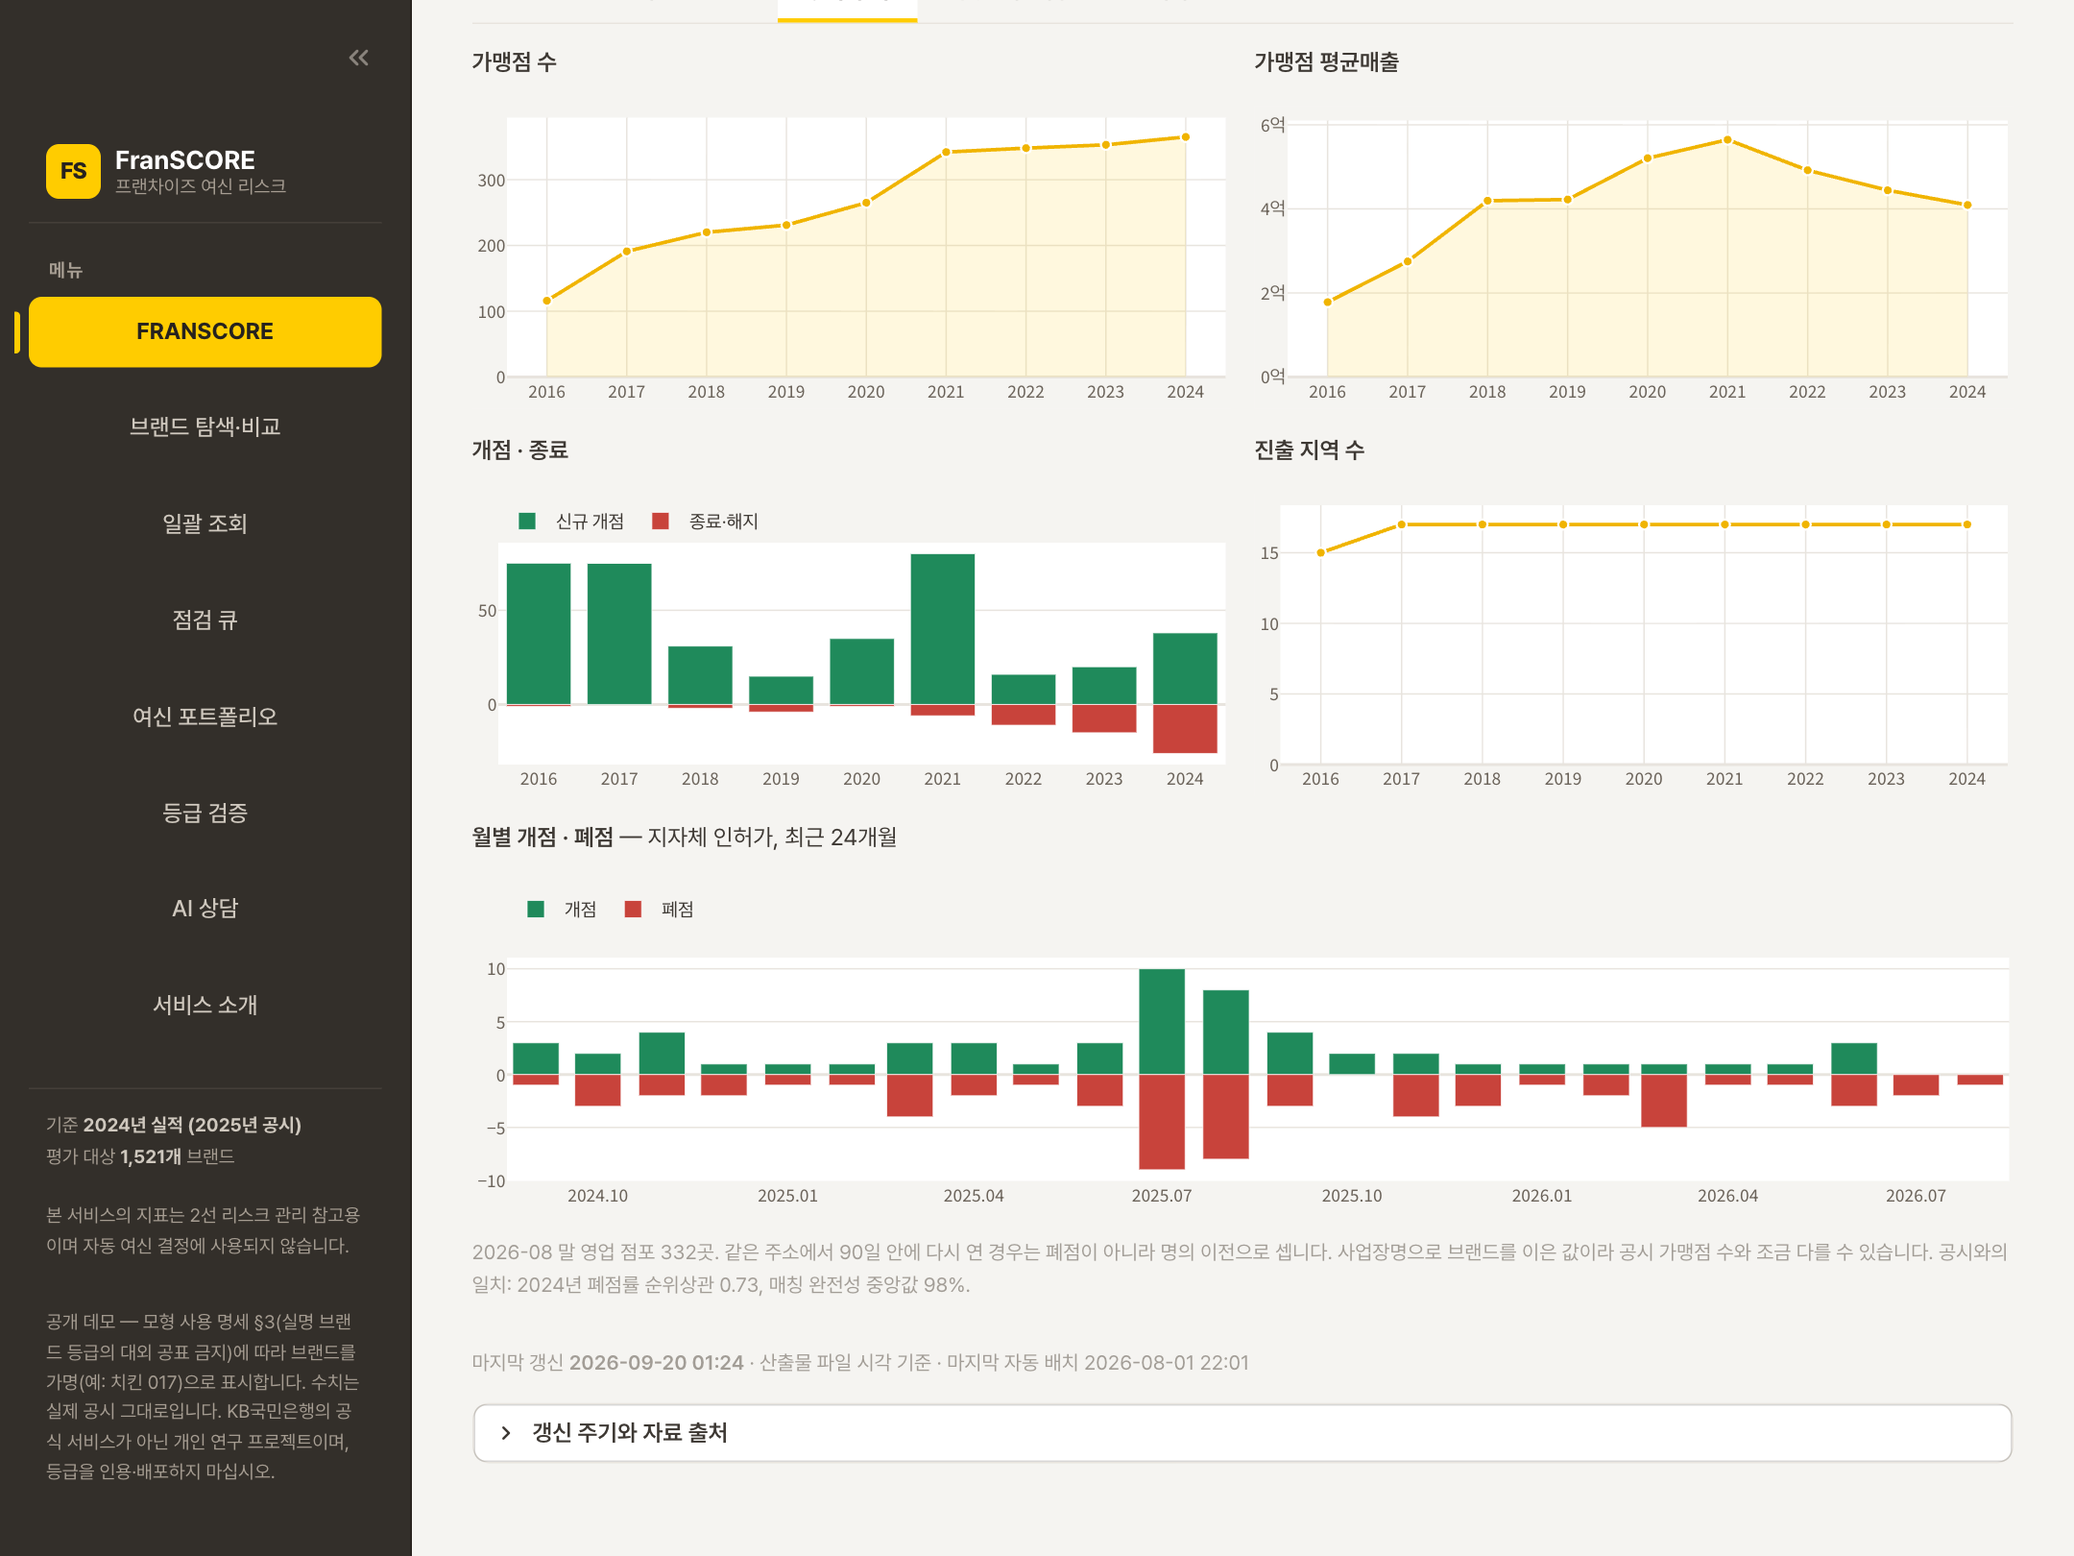
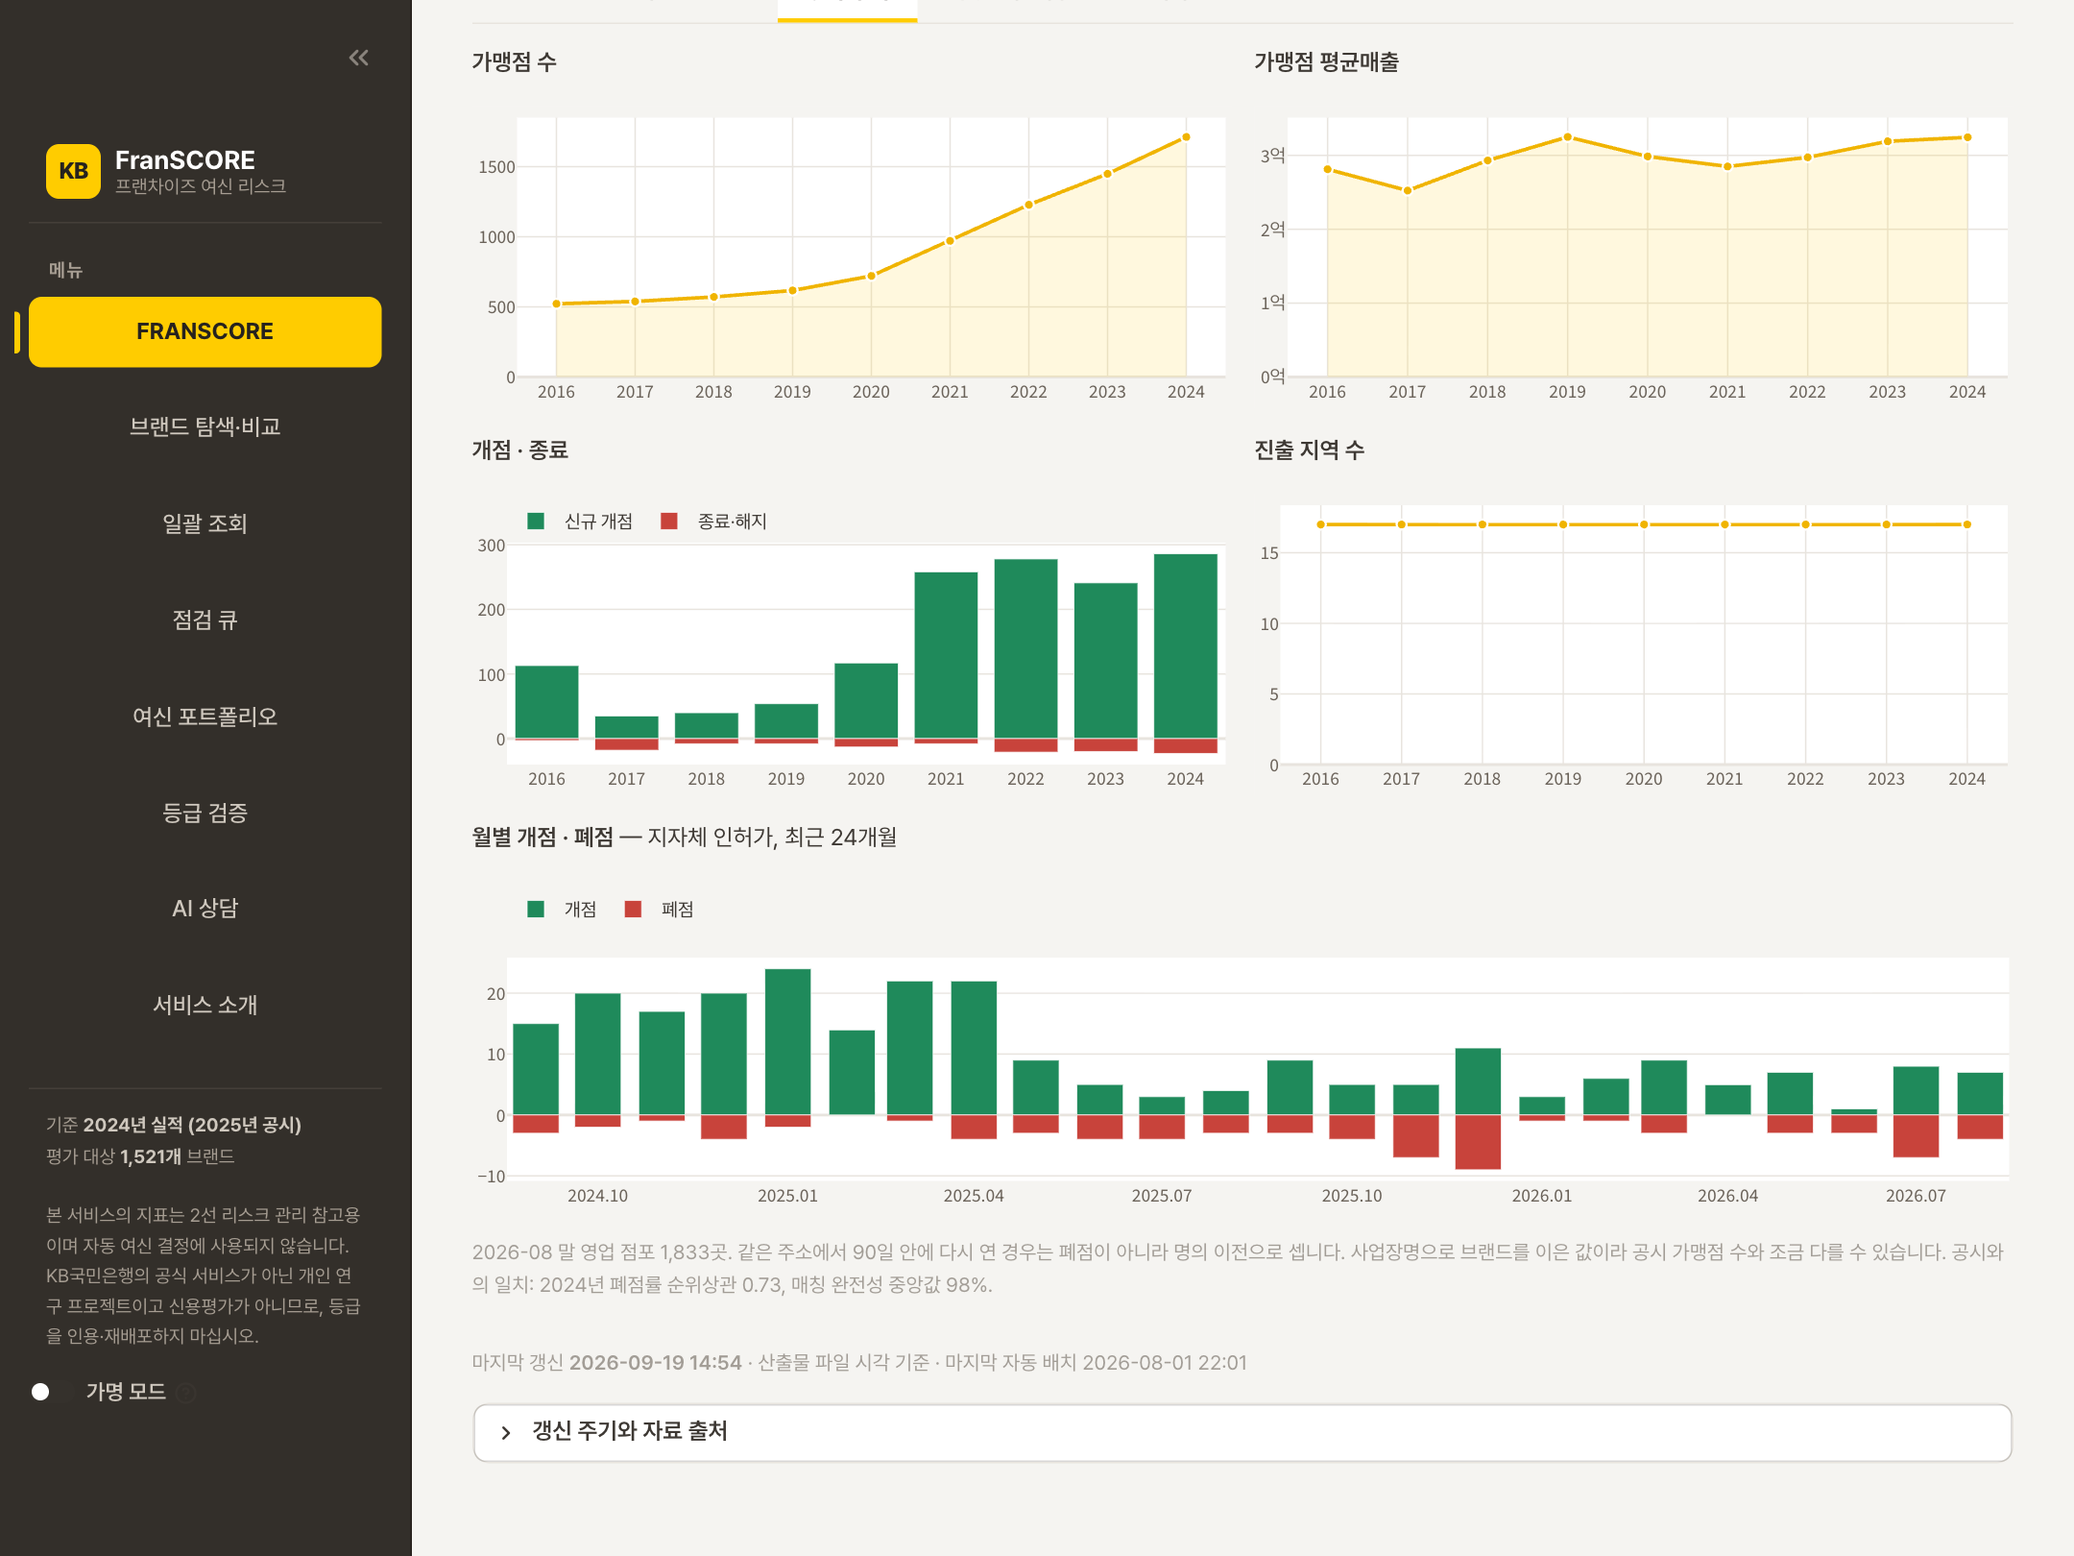
문서·화면을 실명 기준으로 갱신하고, 낡아 있던 꼬리 기여 표를 고쳤다
- 모형 사용 명세 §3: 공개 범위를 '연구·시연 공개는 실명, 인용·재배포 금지'로 다시 적고
  가명 모드·삭제 요청 창구를 명시
- README·기술설명서: 가명 고지 → 가명 모드 설명, 스크린샷 10장을 실명 화면으로 교체
- 기술설명서 41-3: 공개 범위를 두 번 정한 기록 (전부 가명 → 가명은 기능)
- 결함 163: 꼬리 기여 상위 표가 산출물과 달랐다(여신 비중 15.1%·UL 35.6% → 14.4%·37.0%,
  4·5위 브랜드도 다름). 문서 수치 자동 대조에 편입 (204 → 210건)

diff --git a/tools/check_doc_numbers.py b/tools/check_doc_numbers.py
@@ -642,6 +642,17 @@ def main() -> int:
     need("뉴스 추출 정확도 규칙(전체)", f"{le['all']['rules']['accuracy']:.3f}", "README")
     need("뉴스 정답셋 건수", f"{le['all']['rules']['n']}건", "README")
 
+    # 꼬리 기여 상위 표(TECH §25-3)는 오랫동안 대조 밖이라 낡아 있었다(결함 163) — 브랜드명까지 센다.
+    ul = pd.read_csv(OUT / "brand_ul_contribution.csv").sort_values("ul_share", ascending=False)
+    head("⑩-2 꼬리 기여 상위 (brand_ul_contribution.csv)")
+    top = ul.iloc[0]
+    need("UL 기여 1위 브랜드", str(top["brand_name"]), "TECH")
+    need("UL 기여 1위 비중", f"**{100 * top['ul_share']:.1f}%**", "TECH")
+    need("UL 기여 1위 쏠림배수", f"**{top['concentration_ratio']:.2f}배**", "TECH")
+    need("UL 기여 1위 여신비중", f"{100 * top['exposure_share']:.1f}%", "TECH")
+    need("UL 기여 2위 브랜드", str(ul.iloc[1]["brand_name"]), "TECH")
+    need("UL 상위 5개 합", f"UL 의 {100 * ul['ul_share'].head(5).sum():.1f}%", "TECH")
+
     # 월별 신호의 타당도는 README 헤드라인에도 오른다. 신호표를 새로 만들면(월 1회) 판정 분포는
     # 바뀌지만 이 값들은 validate_localdata.py 를 다시 돌릴 때만 바뀐다 — 그래서 분포는 문서에
     # 적지 않고, 타당도만 대조한다.

diff --git a/README.md b/README.md
@@ -27,7 +27,7 @@
 ![Gemini](https://img.shields.io/badge/Gemini_2.5_Flash-0f172a?style=flat&logo=googlegemini&logoColor=white)
 ![pytest](https://img.shields.io/badge/pytest-0f172a?style=flat&logo=pytest&logoColor=white)
 
-<sub>화면 속 브랜드명은 <b>가명</b>입니다(예: 커피 685) — 모형 사용 명세 §3(실명 브랜드 등급 공표 금지)에 따라 공개 데모와 README 는 가명으로 표시하고, 수치는 실제 공시 그대로 둡니다.</sub>
+<sub>공시로 공개된 자료로 만든 <b>참고 지표</b>입니다 — 신용평가가 아니며 등급을 인용·재배포하지 마십시오. 실명을 쓸 수 없는 자리에서는 사이드바의 <b>가명 모드</b>를 켜면 브랜드 이름만 가명으로 바뀝니다.</sub>
 
 </div>
 
@@ -84,7 +84,7 @@
 
 ## 🖥 Service — 화면
 
-<sub>모든 그림은 공개 데모 화면입니다 — 브랜드는 가명, 숫자는 실제 공시입니다.</sub>
+<sub>모든 그림은 공개 데모 화면입니다 — 브랜드 실명과 실제 공시 수치 그대로입니다.</sub>
 
 <table>
 <tr>
@@ -151,7 +151,7 @@
 
 **은행 자료가 들어오면** — 라벨이 연체가 아니므로, 은행 연체 자료로 곧바로 돌릴 검증 절차를 코드로 고정해 두었습니다(**등급 검증** 화면). 대출을 **취급 당시 볼 수 있던 등급**에 맞추고(실적은 다음 해에 공개되므로 취급연도 − 2년), 그사이 사라진 브랜드까지 찾아 **생존 편향**을 막고, 같은 브랜드 연체의 동조를 반영한 **브랜드 군집 강건 검정**으로 판정합니다. 판정 기준은 귀무 모의실험으로 오탐률을 확인했습니다.
 
-**품질 장치** — 시점 누출 자동 검사 · 라벨 규칙 학습 전 동결 · 두 표본 트랙 사전 선언 · 문서에 적힌 수치 **204건**을 산출물과 자동 대조(`tools/check_doc_numbers.py`) · pytest 전 화면 스모크 테스트 · 공개 모드 실명 누출 검사(공개용 사본 전체 + 전 화면) · 푸시마다 GitHub Actions CI
+**품질 장치** — 시점 누출 자동 검사 · 라벨 규칙 학습 전 동결 · 두 표본 트랙 사전 선언 · 문서에 적힌 수치 **210건**을 산출물과 자동 대조(`tools/check_doc_numbers.py`) · pytest 전 화면 스모크 테스트 · 가명 모드 누출 검사(사본 전체 + 전 화면)와 실명↔가명 토글 왕복 검사 · 푸시마다 GitHub Actions CI
 
 ---
 
@@ -198,7 +198,7 @@ flowchart LR
 | **등급** | 순위가 아닌 **고정 확률 구간**(4.5% · 16.0%) — 업계 전체가 나빠지면 하위 등급이 늘어납니다. |
 | **월별 신호** | 인허가 사업장명 → 브랜드 매칭, 같은 주소 90일 내 재개업은 명의 이전. 최근 3개월 폐업을 전년 동기와 **조건부 이항검정**으로 비교합니다. 점수에는 넣지 않습니다. |
 | **AI** | LLM 은 뉴스 사건 구조화와 상담에만 씁니다. 점수에는 넣지 않고, 정답셋으로 규칙기반과 비교 평가했습니다. |
-| **공개 배포** | 공개 데모는 브랜드·본부 이름과 식별번호를 가명으로 바꾼 사본을 읽습니다(`src/public.py`). 설정 경로 한 곳에서 전환해 화면 코드는 그대로입니다. |
+| **가명 모드** | 실명을 쓸 수 없는 자리(제3자 배포 자료·기관 내부 배포·브랜드 측 요청)에서는 사이드바 토글 한 번으로 브랜드·본부 이름과 식별번호가 가명으로 바뀝니다(`src/public.py`). 읽는 산출물 경로만 바꾸므로 화면 코드는 그대로입니다. |
 
 ---
 
@@ -221,7 +221,7 @@ flowchart LR
 git clone https://github.com/AISWKimBeomSu/KB_franSCORE.git && cd KB_franSCORE
 pip install -r requirements.txt           # Python 3.13 (버전 고정)
 streamlit run src/app.py                  # 산출물이 포함돼 있어 API 키 없이 전 화면 동작 (실명 — 내부 참고용)
-FRANSCORE_PUBLIC_DEMO=1 streamlit run src/app.py   # 공개 데모와 같은 가명 화면
+FRANSCORE_PUBLIC_DEMO=1 streamlit run src/app.py   # 가명 모드로 시작 (사이드바 토글로도 켜고 끕니다)
 ```
 
 ```bash
@@ -278,7 +278,7 @@ KB_franSCORE/
 │  ├─ portfolio.py correlation.py loanbook.py   # 집중도 · 브랜드 상관 · 꼬리손실 · 행내 장부 업로드
 │  ├─ batch.py delinquency.py               # 일괄 조회 · 은행 연체 자료 등급 검증
 │  ├─ nts.py localdata.py                   # 국세청 휴·폐업 · 지자체 인허가 월별 폐점 신호
-│  ├─ public.py                             # 공개 데모 가명 사본 (모형 사용 명세 §3)
+│  ├─ public.py                             # 가명 모드 — 실명을 못 쓰는 자리용 사본 (명세 §3)
 │  ├─ llm.py news_llm.py rag.py chat.py     # Gemini · 뉴스 사건 추출 · RAG · 상담
 │  ├─ app.py theme.py                       # Streamlit 셸 · 디자인 시스템
 │  └─ views/                                # 화면 8종
@@ -310,7 +310,7 @@ KB_franSCORE/
 - 공시 공백 보정으로 평가한 79개 브랜드는 과거 백테스트 표본 밖입니다 — 화면에 그 사실과 근거를 함께 적습니다.
 - 월별 폐점 신호는 사업장명으로 브랜드를 이은 값입니다 — 상호에 브랜드명이 없는 가맹점은 빠지고(매칭 완전성 중앙값 98.3%, 브랜드별 편차 있음), 인허가 폐업은 가맹계약 종료와 같은 사건이 아닙니다. 그래서 점수에 넣지 않고 조기경보로만 씁니다. 전국 파일은 월 1회 손으로 내려받습니다(자동화는 공공데이터 API 키로 가능).
 - 국세청 휴·폐업 조회는 `DATA_GO_KR_KEY` 와 데이터셋 15081808 활용신청 뒤에 동작합니다.
-- 공개 데모는 브랜드를 **가명**으로 보여 주지만 숫자는 실제 공시라, 공정위 자료와 대조하면 큰 브랜드는 다시 알아볼 수 있습니다 — 재식별을 막는 익명화가 아니라 실명 등급을 공표하지 않는 조치입니다. 특정 브랜드에 대한 평가·권유가 아니며 등급을 인용·배포하지 않아야 합니다. 저장소의 `outputs/` 는 재현용 연구 자료입니다.
+- 공개 데모는 **실명**으로 동작합니다. 공시로 이미 공개된 자료를 다시 계산한 참고 지표이지 신용평가가 아니고, 특정 브랜드에 대한 평가·권유도 아닙니다 — 등급을 인용·재배포하지 마십시오. 실명을 쓸 수 없는 자리에서는 **가명 모드**를 켜고, 브랜드 측 요청이 오면 해당 브랜드를 내리거나 가명 모드로 전환합니다(창구: 저장소 이슈). 저장소의 `outputs/` 는 재현용 연구 자료입니다.
 
 ---
 

diff --git a/docs/MODEL_USE_SPEC.md b/docs/MODEL_USE_SPEC.md
@@ -61,22 +61,27 @@
 | **IFRS 9 충당금 산정 · Stage 이동 판정** | 등급 이동이 절대 신용위험 변화를 뜻하지 않는다. |
 | **개별 가맹점주에 대한 불이익 처분의 단독 근거** | 브랜드 등급으로 차주를 판단하는 것은 연좌다. |
 | **"부도확률"·"PD"로 표기하거나 그렇게 인용** | §4 참조. 이름을 바꾸는 순간 거짓이 된다. |
-| **대외 공표·마케팅 자료에 브랜드 등급을 개별 명시** | 실명 브랜드에 대한 신용훼손 위험. 내부 참고용이다. |
+| **등급의 인용·재배포·마케팅 이용** | 이 등급은 공시 지표로 만든 참고 값이지 신용평가가 아니다. 제3자 자료·광고·보도에 브랜드 등급을 옮겨 싣지 않는다. |
 
-**공개 배포는 대외 공표로 본다.** 누구나 접속하는 공개 데모와 README·문서가 그렇다. 그래서
-공개 배포에서는 브랜드를 가명(예: `치킨 017`, 본부는 `가맹본부 14587`)으로 표시한다
-(`src/public.py`). 브랜드 ID·관리번호·DART 접수번호는 지우고, 로고·기사 원문·검색 색인은 쓰지 않는다.
-실명 조회는 로컬·사내 실행에서만 된다(내부 참고용 — 허용 범위).
+**공개 범위 — 연구·시연 공개는 실명으로, 인용·재배포는 금지.** 공개 데모와 README·문서는 브랜드를
+실명으로 보여 준다. 수치의 출처인 공정위 공시·감사보고서가 이미 실명으로 공개된 자료이고, **아는
+브랜드를 찾아 그 근거를 보는 것**이 이 도구의 핵심 동작이기 때문이다. 대신 다음을 지킨다.
 
-- **목적과 한계.** 숫자(가맹점 수·매출·재무)는 실제 공시 그대로라, 공정위 자료와 대조하면 큰
-  브랜드는 다시 알아볼 수 있다. 이 처리는 재식별을 막는 익명화가 아니라 **실명 등급을 공표하지 않는
-  것**이 목적이다.
-- **예시 선택.** 화면의 예시·기본 비교 브랜드는 가맹점 100~499곳 구간에서 고른다. 업계 최상위
-  규모는 가맹점 수만으로 실명이 짐작되므로, 공개 데모가 먼저 내미는 예시로 쓰지 않는다.
-- **확인 방법.** `tests/test_public.py` 가 공개용 사본 전체와 공개 모드 전 화면을 실명 목록으로
-  훑는다. 브랜드명·본부명·브랜드 ID 가 하나라도 나오면 실패한다.
-- **저장소 산출물.** `outputs/` 의 파일은 재현용 연구 자료로 둔다. 화면·README·문서에서는 실명
-  등급을 인용하지 않는다.
+- **성격 고지.** 모든 화면에 "2선 리스크 관리 참고용 · 개인 연구 프로젝트 · 신용평가 아님 ·
+  등급 인용·재배포 금지"를 상시 표기한다(`src/app.py` DISCLAIMER).
+- **가명 모드.** 실명을 쓸 수 없는 자리 — 제3자에게 넘기는 자료, 대외 공표가 제한된 기관 내부 배포,
+  브랜드 측 요청 — 에서는 가명 모드를 켠다. 사이드바 토글 또는 `FRANSCORE_PUBLIC_DEMO=1`
+  (`src/public.py`). 브랜드명·본부명·식별번호가 가명(예: `치킨 017`, `가맹본부 14587`)으로 바뀌고
+  로고·기사 원문·검색 색인은 쓰지 않는다. 수치는 실제 공시 그대로 둔다.
+- **가명의 한계.** 숫자를 그대로 두므로 공정위 자료와 대조하면 큰 브랜드는 다시 알아볼 수 있다.
+  재식별을 막는 익명화가 아니라 **실명과 등급을 같은 화면에 싣지 않는 것**이 목적이다.
+- **예시 선택.** 가명 모드의 예시·기본 비교 브랜드는 가맹점 100~499곳 구간에서 고른다. 업계 최상위
+  규모는 가맹점 수만으로 실명이 짐작돼 가명이 의미를 잃는다.
+- **확인 방법.** `tests/test_public.py` 가 가명 모드에서 사본 전체와 전 화면을 실명 목록으로 훑고,
+  **기본값이 실명이며 토글로 실명↔가명이 오가는지**도 검사한다.
+- **삭제·정정 요청.** 브랜드 측 요청이 오면 해당 브랜드를 공개 화면에서 내리거나 가명 모드로
+  전환한다. 창구는 저장소 이슈(`github.com/AISWKimBeomSu/KB_franSCORE/issues`)다.
+- **저장소 산출물.** `outputs/` 의 파일은 재현용 연구 자료다.
 
 ---
 

diff --git a/docs/RESULTS.md b/docs/RESULTS.md
@@ -2,8 +2,8 @@
 
 > [README](../README.md) 의 요약 수치 뒤에 있는 **전체 표와 근거**입니다.
 > 이 문서의 모든 수치는 `python tools/check_doc_numbers.py` 가 산출물(`outputs/`)과 매번 대조합니다.
-> 개발 전 과정과 스스로 잡은 결함 162건 · 철회한 주장 7건 · 기각한 설계 7건의 전수 기록은
-> [기술설명서](TECHNICAL_REPORT.md) 제7부에 있습니다 (결함 162건).
+> 개발 전 과정과 스스로 잡은 결함 163건 · 철회한 주장 7건 · 기각한 설계 7건의 전수 기록은
+> [기술설명서](TECHNICAL_REPORT.md) 제7부에 있습니다 (결함 163건).
 
 ---
 
